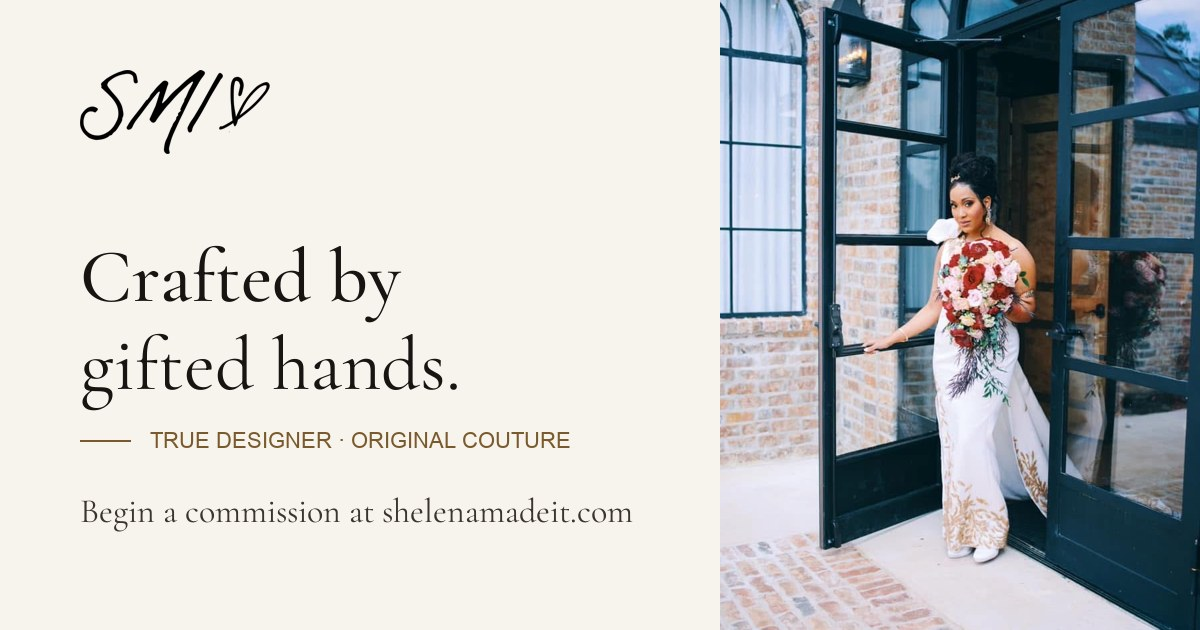
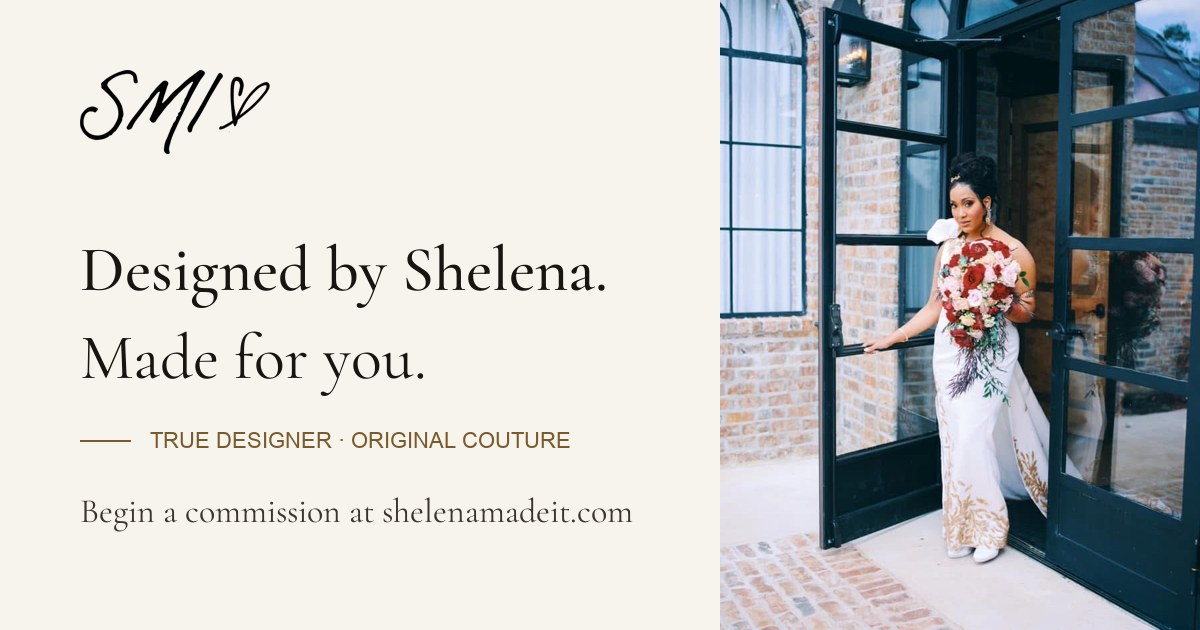
Headline: 'Designed by Shelena. Made for you.' (Shelena's pick) across hero, meta and share card

Changed region(s): [[0.0617, 0.3921, 0.4933, 0.4825], [0.0617, 0.5127, 0.37, 0.6635]]

diff --git a/index.html b/index.html
@@ -4,7 +4,7 @@
   <meta charset="utf-8">
   <meta name="viewport" content="width=device-width, initial-scale=1, viewport-fit=cover">
   <title>Shelena Made It — Original Couture by Shelena Shulterbrandt</title>
-  <meta name="description" content="Original couture by Shelena Shulterbrandt: one-of-one wedding gowns, prom and evening wear, suits and children's couture. Crafted by gifted hands: one-of-one designs, never copies.">
+  <meta name="description" content="Original couture by Shelena Shulterbrandt: one-of-one wedding gowns, prom and evening wear, suits and children's couture. Designed by Shelena, made for you: one-of-one couture, never copies.">
   <meta name="theme-color" content="#f7f3ed">
   <link rel="canonical" href="https://shelenamadeit.com/">
   <link rel="icon" href="assets/img/favicon-32.png" sizes="32x32">
@@ -13,7 +13,7 @@
   <meta property="og:site_name" content="Shelena Made It">
   <meta property="og:url" content="https://shelenamadeit.com/">
   <meta property="og:title" content="Shelena Made It — Bespoke Bridal, Prom &amp; Couture by Shelena Shulterbrandt">
-  <meta property="og:description" content="Original couture by Shelena Shulterbrandt: one-of-one wedding gowns, prom and evening wear, suits and children's couture. Crafted by gifted hands: one-of-one designs, never copies.">
+  <meta property="og:description" content="Original couture by Shelena Shulterbrandt: one-of-one wedding gowns, prom and evening wear, suits and children's couture. Designed by Shelena, made for you: one-of-one couture, never copies.">
   <meta property="og:image" content="https://shelenamadeit.com/assets/img/share-card.jpg">
   <meta property="og:image:width" content="1200">
   <meta property="og:image:height" content="630">
@@ -87,7 +87,7 @@
       <div class="wrap">
         <div class="hero-copy">
           <p class="eyebrow">True designer · Original couture</p>
-          <h1>Crafted by gifted hands.<br><em>Made for you.</em></h1>
+          <h1>Designed by Shelena.<br><em>Made for you.</em></h1>
           <p class="lede">Commission Shelena Shulterbrandt the way the world's best-dressed commission their designers: for her eye, her hand and her name. One-of-one couture for you, your family, or anyone who wants to be dressed by her.</p>
           <div class="hero-cta" data-hero-cta>
             <a class="btn" href="book.html">Begin your commission <span class="arrow" aria-hidden="true">→</span></a>

diff --git a/book.html b/book.html
@@ -4,7 +4,7 @@
   <meta charset="utf-8">
   <meta name="viewport" content="width=device-width, initial-scale=1, viewport-fit=cover">
   <title>Begin Your Commission — Shelena Made It</title>
-  <meta name="description" content="Begin an original commission with Shelena Shulterbrandt: bridal, prom and evening, suits, children\'s couture and fashion illustration. Original designs, crafted by gifted hands.">
+  <meta name="description" content="Begin an original commission with Shelena Shulterbrandt: bridal, prom and evening, suits, children\'s couture and fashion illustration. Original designs by Shelena, made for you.">
   <meta name="theme-color" content="#f7f3ed">
   <link rel="canonical" href="https://shelenamadeit.com/book.html">
   <link rel="icon" href="assets/img/favicon-32.png" sizes="32x32">
@@ -13,7 +13,7 @@
   <meta property="og:site_name" content="Shelena Made It">
   <meta property="og:url" content="https://shelenamadeit.com/book.html">
   <meta property="og:title" content="Book a Consultation — Shelena Made It">
-  <meta property="og:description" content="Begin an original commission with Shelena Shulterbrandt: bridal, prom and evening, suits, children\'s couture and fashion illustration. Original designs, crafted by gifted hands.">
+  <meta property="og:description" content="Begin an original commission with Shelena Shulterbrandt: bridal, prom and evening, suits, children\'s couture and fashion illustration. Original designs by Shelena, made for you.">
   <meta property="og:image" content="https://shelenamadeit.com/assets/img/share-card.jpg">
   <meta property="og:image:width" content="1200">
   <meta property="og:image:height" content="630">
